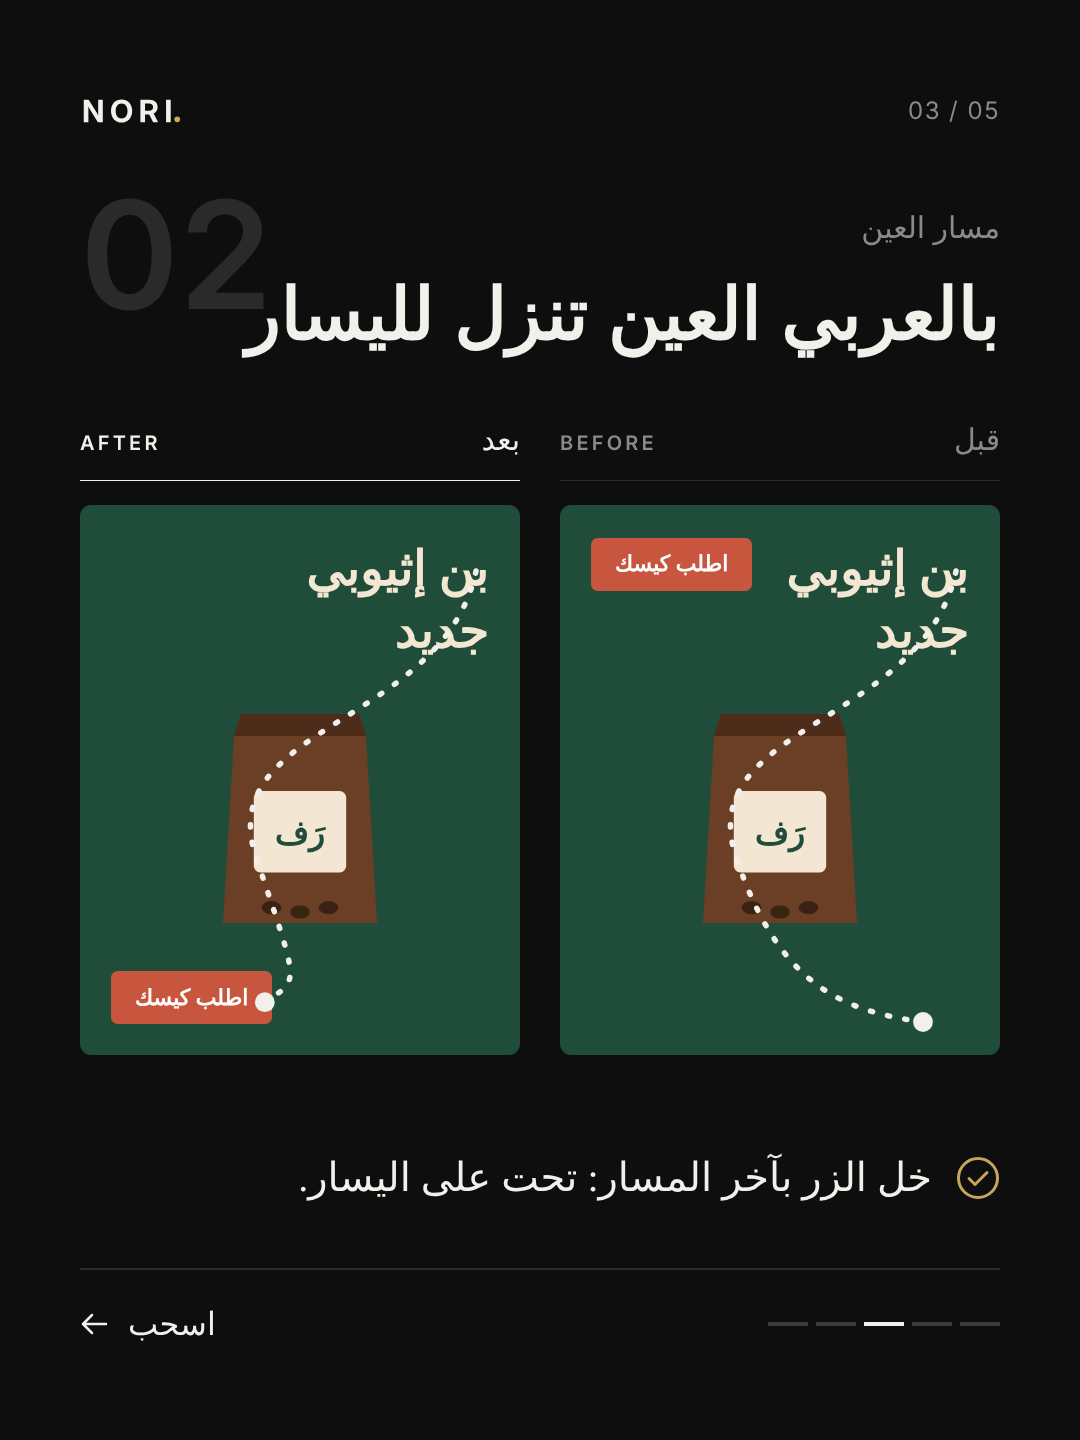
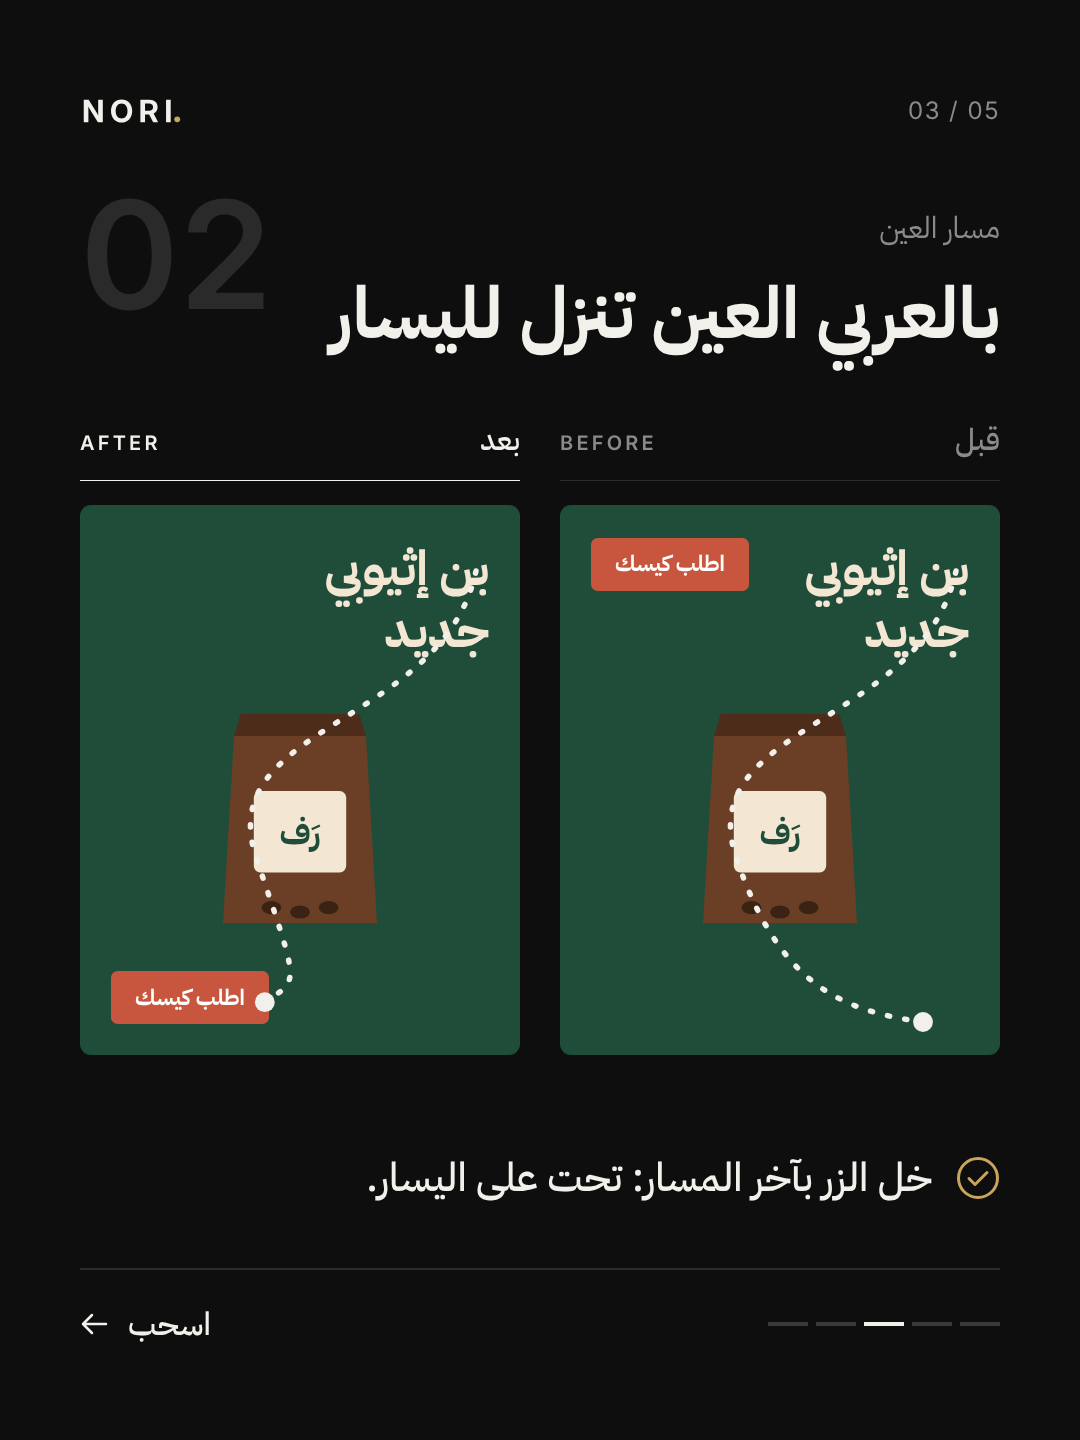
Carousel E: re-render with brand fonts (slide 4 had fallen back), add 12px mobile note; render now fails if brand fonts are missing
Claude-Session: https://claude.ai/code/session_01HCCxgFfuJWNYuEdKruefCY

diff --git a/posts/2026-11-20/E/E-4.html b/posts/2026-11-20/E/E-4.html
@@ -44,7 +44,7 @@ html,body{width:1080px;height:1440px;background:#0E0E0E}
     <div style="font:700 42px/55px 'IBM Plex Sans Arabic';color:#B5B2AC">التسميات والهوامش</div>
     <div style="text-align:left;direction:ltr"><div style="font:600 40px/52px Inter;color:#F2F0EB">10px</div><div style="font:500 26px/34px Inter;color:#8A8A8A">÷ 1.618</div></div></div>
   <div style="border-top:1.5px solid #2C2C2C"></div>
-  <div class="sub" style="margin-top:36px;font-size:34px;line-height:52px">النص الأساسي <span class="n">16px</span>؟ العنوان <span class="n">16 × 1.618 ≈ 26px</span><br>والأصغر منه: اقسم على <span class="n">1.618</span></div>
+  <div class="sub" style="margin-top:36px;font-size:34px;line-height:52px">النص الأساسي <span class="n">16px</span>؟ العنوان <span class="n">16 × 1.618 ≈ 26px</span><br>والأصغر منه: اقسم على <span class="n">1.618</span><br><span style="color:#C9C6C0">بس بالجوال لا تنزل عن <span class="n">12px</span></span></div>
 </div><div class="abs" style="left:80px;right:80px;top:1268px;height:1.5px;background:#2C2C2C"></div>
   <div class="abs" style="left:80px;right:80px;top:1300px;height:48px;display:flex;justify-content:space-between;align-items:center;direction:ltr">
     <div style="display:flex;align-items:center;gap:20px;direction:ltr"><svg width="28" height="24" viewBox="0 0 28 24"><path d="M26 12H3M12 3L3 12l9 9" fill="none" stroke="#F2F0EB" stroke-width="2.5" stroke-linecap="round" stroke-linejoin="round"/></svg><span style="font:500 32px/40px 'IBM Plex Sans Arabic'">اسحب</span></div><div style="display:flex;gap:8px"><div style="width:40px;height:4px;background:#3A3A3A"></div><div style="width:40px;height:4px;background:#F2F0EB"></div><div style="width:40px;height:4px;background:#3A3A3A"></div><div style="width:40px;height:4px;background:#3A3A3A"></div><div style="width:40px;height:4px;background:#3A3A3A"></div></div></div></div></body></html>

diff --git a/posts/_generator/e-f.js b/posts/_generator/e-f.js
@@ -98,7 +98,7 @@ E.push(`
     <div style="font:700 ${x[3]}px/${Math.round(x[3] * 1.3)}px ${AR};color:${x[4]}">${x[1]}</div>
     <div style="text-align:left;direction:ltr"><div style="font:600 40px/52px Inter;color:#F2F0EB">${x[2]}</div><div style="font:500 26px/34px Inter;color:#8A8A8A">${x[0]}</div></div></div>`).join('')}
   <div style="border-top:1.5px solid #2C2C2C"></div>
-  <div class="sub" style="margin-top:36px;font-size:34px;line-height:52px">النص الأساسي <span class="n">16px</span>؟ العنوان <span class="n">16 × 1.618 ≈ 26px</span><br>والأصغر منه: اقسم على <span class="n">1.618</span></div>
+  <div class="sub" style="margin-top:36px;font-size:34px;line-height:52px">النص الأساسي <span class="n">16px</span>؟ العنوان <span class="n">16 × 1.618 ≈ 26px</span><br>والأصغر منه: اقسم على <span class="n">1.618</span><br><span style="color:#C9C6C0">بس بالجوال لا تنزل عن <span class="n">12px</span></span></div>
 </div>`);
 // 5 CTA: recap in three columns + comment question
 function finalSlide(q, cols, brand) {

diff --git a/posts/_generator/lib2.js b/posts/_generator/lib2.js
@@ -70,6 +70,9 @@ async function render(slides, outDir, prefix) {
     fs.writeFileSync(path.join(outDir, `${prefix}-${i + 1}.html`), html);
     await pg.setContent(html, { waitUntil: 'load' });
     await pg.evaluate(() => document.fonts.ready);
+    // brand font guard: never render with a fallback font (install /fonts first)
+    const fontOk = await pg.evaluate(() => document.fonts.check('700 40px "IBM Plex Sans Arabic"', 'نوري') && document.fonts.check('600 40px "Inter"', 'NORI'));
+    if (!fontOk) throw new Error('Brand fonts missing: install nori-brand/fonts (IBM Plex Sans Arabic + Inter) before rendering');
     const out = await pg.evaluate(() => {
       const o = [];
       document.querySelectorAll('.s > *:not(.wm)').forEach(el => {
